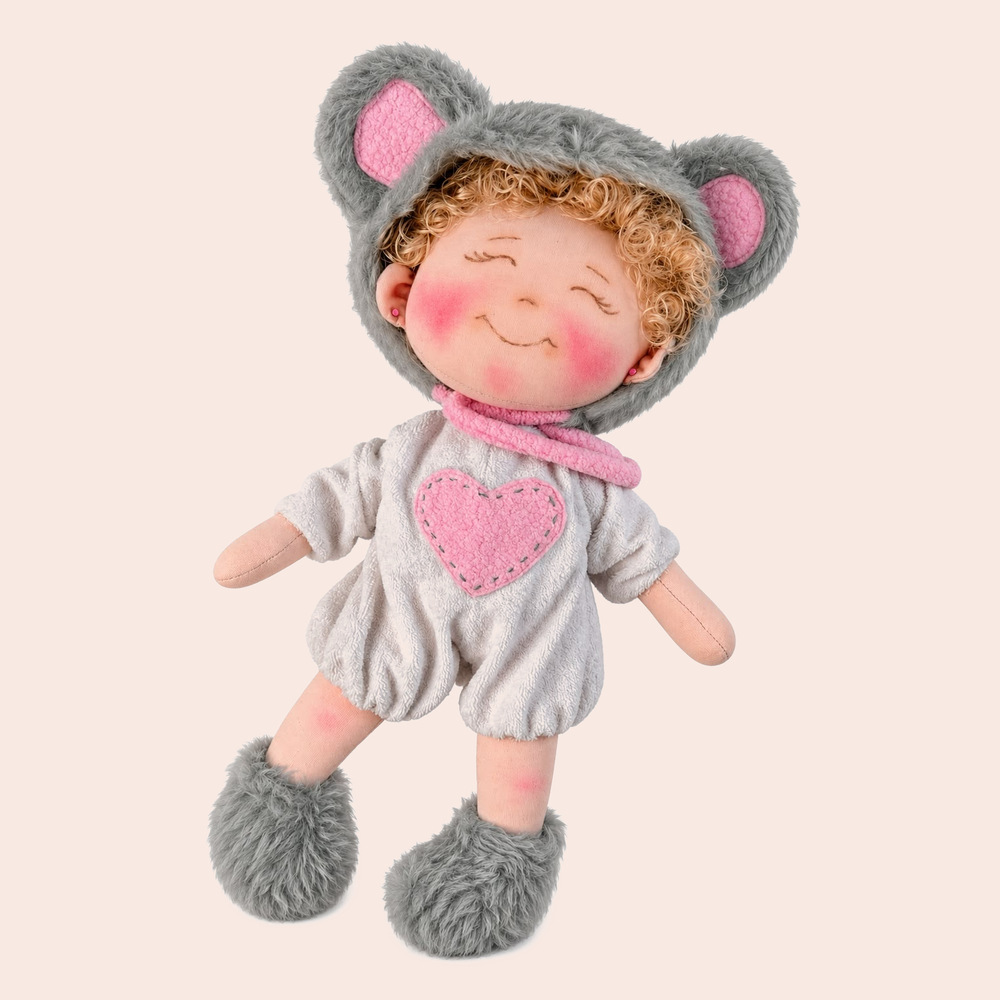
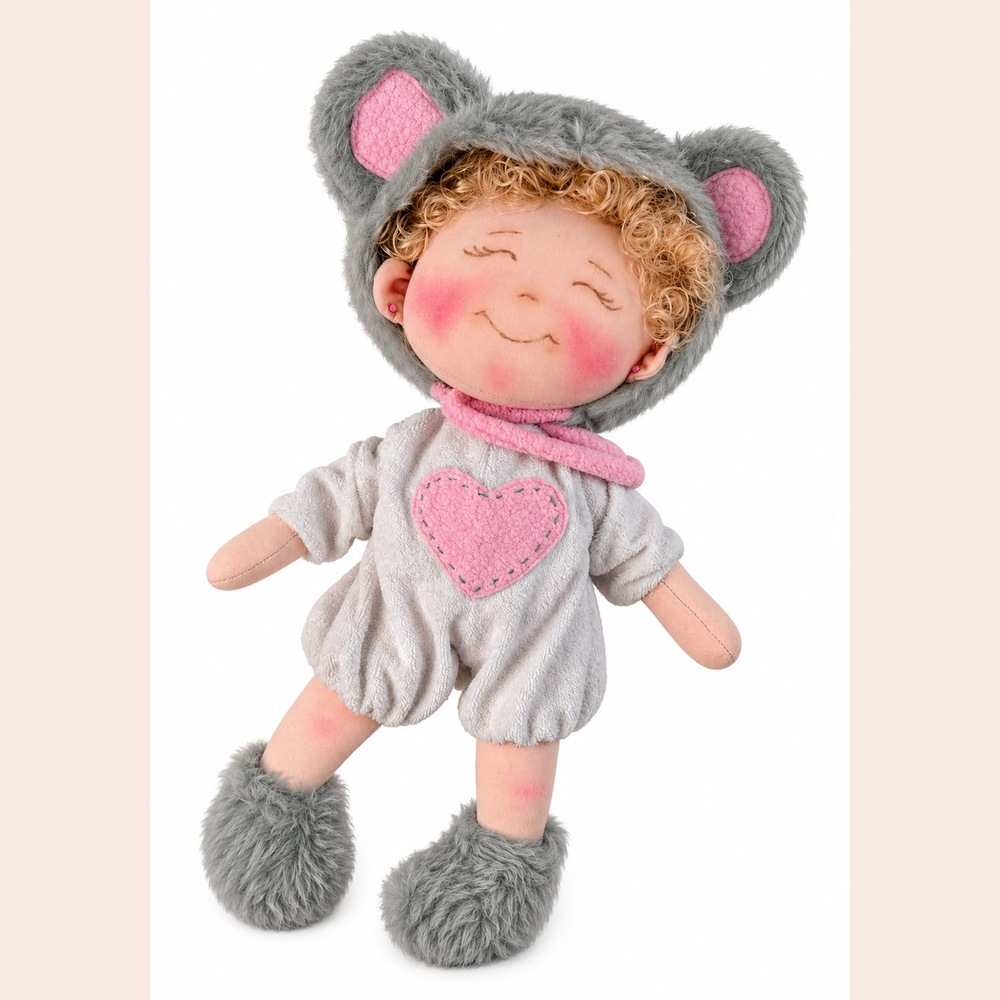
Add files via upload

diff --git a/cursos.js b/cursos.js
@@ -1,16 +1,16 @@
 // Lista de cursos e preços da Black Friday.
 // Fotos e links de checkout serão adicionados depois.
 window.CURSOS = [
-  {id:'trio-ternura', nome:'Trio Ternura', preco:157, foto:'assets/trio-ternura.jpg?v=20261117-fundo-uniforme4', descricao:'Conheça o curso Trio Ternura do Ateliê Agulha e Pano.', checkout:''},
-  {id:'mimos-em-trio', nome:'Mimos em Trio', preco:157, foto:'assets/mimos-em-trio.jpg?v=20261117-fundo-uniforme4', descricao:'Conheça o curso Mimos em Trio do Ateliê Agulha e Pano.', checkout:''},
-  {id:'turminha-da-juju', nome:'Turminha da Juju', preco:397, foto:'assets/turminha-da-juju.jpg?v=20261117-fundo-uniforme4', descricao:'Conheça o curso Turminha da Juju do Ateliê Agulha e Pano.', checkout:''},
-  {id:'figurinha-sarah-kay', nome:'Figurinha Sarah Kay', preco:157, foto:'assets/figurinhas-sarah-kay.jpg?v=20261117-fundo-uniforme4', descricao:'Conheça o curso Figurinha Sarah Kay do Ateliê Agulha e Pano.', checkout:''},
-  {id:'bebe-cebolinha', nome:'Bebê Cebolinha', preco:73, foto:'assets/bebe-cebolinha.jpg?v=20261117-fundo-uniforme4', descricao:'Conheça o curso Bebê Cebolinha do Ateliê Agulha e Pano.', checkout:''},
-  {id:'molly', nome:'Molly', preco:59, foto:'assets/molly.jpg?v=20261117-fundo-uniforme4', descricao:'Conheça o curso Molly do Ateliê Agulha e Pano.', checkout:''},
-  {id:'maluly', nome:'Maluly', preco:85, foto:'assets/maluly.jpg?v=20261117-fundo-uniforme4', descricao:'Conheça o curso Maluly do Ateliê Agulha e Pano.', checkout:''},
-  {id:'maria-flor', nome:'Maria Flor', preco:197, foto:'assets/maria-flor.jpg?v=20261117-fundo-uniforme4', descricao:'Conheça o curso Maria Flor do Ateliê Agulha e Pano.', checkout:''},
-  {id:'nenem-doll', nome:'Neném Doll', preco:75, foto:'assets/nenem-doll.jpg?v=20261117-fundo-uniforme4', descricao:'Conheça o curso Neném Doll do Ateliê Agulha e Pano.', checkout:''},
-  {id:'emilia', nome:'Emília', preco:49, foto:'assets/emilia.jpg?v=20261117-fundo-uniforme4', descricao:'Conheça o curso Emília do Ateliê Agulha e Pano.', checkout:''},
-  {id:'clarinha', nome:'Clarinha', preco:79, foto:'assets/clarinha.jpg?v=20261117-fundo-uniforme4', descricao:'Conheça o curso Clarinha do Ateliê Agulha e Pano.', checkout:''}
+  {id:'trio-ternura', nome:'Trio Ternura', preco:157, foto:'assets/trio-ternura.jpg?v=20261117-identidades-corrigidas5', descricao:'Conheça o curso Trio Ternura do Ateliê Agulha e Pano.', checkout:''},
+  {id:'mimos-em-trio', nome:'Mimos em Trio', preco:157, foto:'assets/mimos-em-trio.jpg?v=20261117-identidades-corrigidas5', descricao:'Conheça o curso Mimos em Trio do Ateliê Agulha e Pano.', checkout:''},
+  {id:'turminha-da-juju', nome:'Turminha da Juju', preco:397, foto:'assets/turminha-da-juju.jpg?v=20261117-identidades-corrigidas5', descricao:'Conheça o curso Turminha da Juju do Ateliê Agulha e Pano.', checkout:''},
+  {id:'figurinha-sarah-kay', nome:'Figurinha Sarah Kay', preco:157, foto:'assets/figurinhas-sarah-kay.jpg?v=20261117-identidades-corrigidas5', descricao:'Conheça o curso Figurinha Sarah Kay do Ateliê Agulha e Pano.', checkout:''},
+  {id:'bebe-cebolinha', nome:'Bebê Cebolinha', preco:73, foto:'assets/bebe-cebolinha.jpg?v=20261117-identidades-corrigidas5', descricao:'Conheça o curso Bebê Cebolinha do Ateliê Agulha e Pano.', checkout:''},
+  {id:'molly', nome:'Molly', preco:59, foto:'assets/molly.jpg?v=20261117-identidades-corrigidas5', descricao:'Conheça o curso Molly do Ateliê Agulha e Pano.', checkout:''},
+  {id:'maluly', nome:'Maluly', preco:85, foto:'assets/maluly.jpg?v=20261117-identidades-corrigidas5', descricao:'Conheça o curso Maluly do Ateliê Agulha e Pano.', checkout:''},
+  {id:'maria-flor', nome:'Maria Flor', preco:197, foto:'assets/maria-flor.jpg?v=20261117-identidades-corrigidas5', descricao:'Conheça o curso Maria Flor do Ateliê Agulha e Pano.', checkout:''},
+  {id:'nenem-doll', nome:'Neném Doll', preco:75, foto:'assets/nenem-doll.jpg?v=20261117-identidades-corrigidas5', descricao:'Conheça o curso Neném Doll do Ateliê Agulha e Pano.', checkout:''},
+  {id:'emilia', nome:'Emília', preco:49, foto:'assets/emilia.jpg?v=20261117-identidades-corrigidas5', descricao:'Conheça o curso Emília do Ateliê Agulha e Pano.', checkout:''},
+  {id:'clarinha', nome:'Clarinha', preco:79, foto:'assets/clarinha.jpg?v=20261117-identidades-corrigidas5', descricao:'Conheça o curso Clarinha do Ateliê Agulha e Pano.', checkout:''}
 ];
 window.moeda = valor => new Intl.NumberFormat('pt-BR',{style:'currency',currency:'BRL'}).format(valor);

diff --git a/style.css b/style.css
@@ -130,3 +130,8 @@
 .course-visual{background:#f8e9e2!important;aspect-ratio:1/1!important;height:auto!important;overflow:hidden!important}
 .course-visual img{background:#f8e9e2!important;width:100%!important;height:100%!important;object-fit:contain!important;display:block!important}
 .course-visual:before,.course-visual:after{display:none!important;content:none!important}
+
+/* Imagens uniformes: sem faixas, sem cortes e com fundo neutro. */
+.course-visual{height:auto!important;aspect-ratio:1/1!important;background:#f8e9e2!important;display:block!important;overflow:hidden!important}
+.course-visual:before,.course-visual:after{display:none!important}
+.course-visual img{display:block!important;width:100%!important;height:100%!important;object-fit:contain!important;object-position:center!important;background:#f8e9e2!important}
